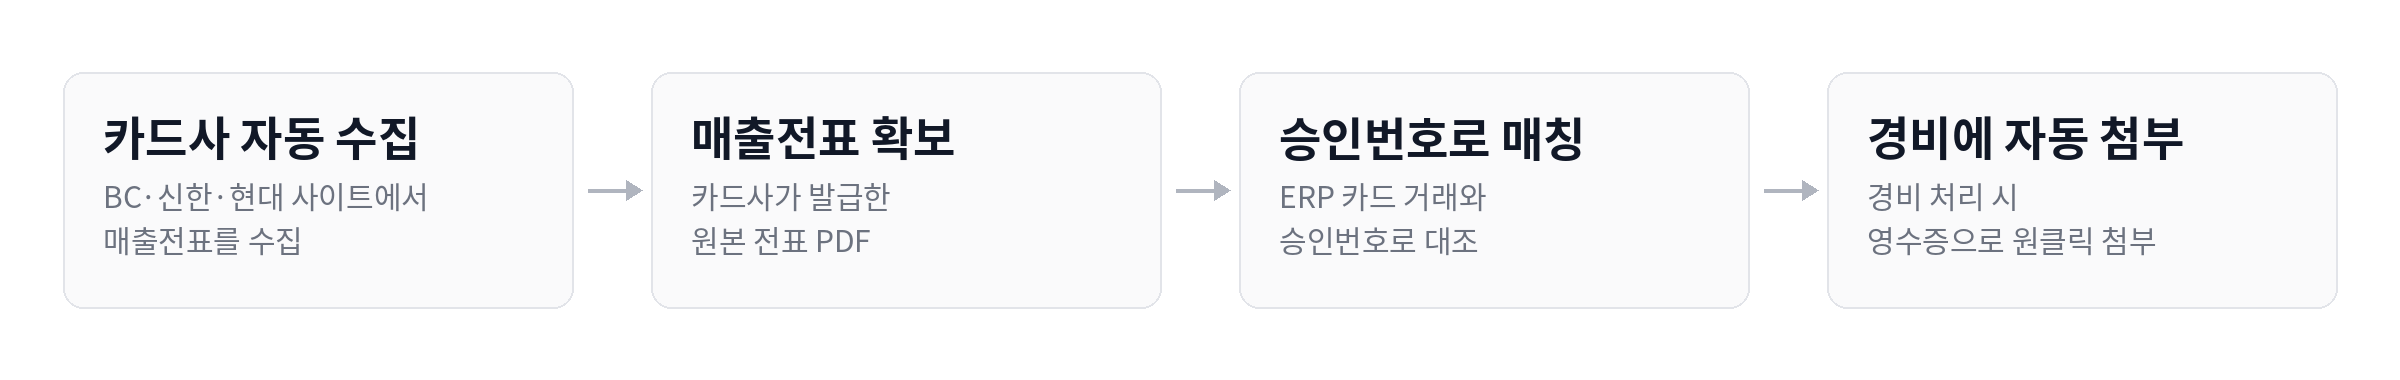
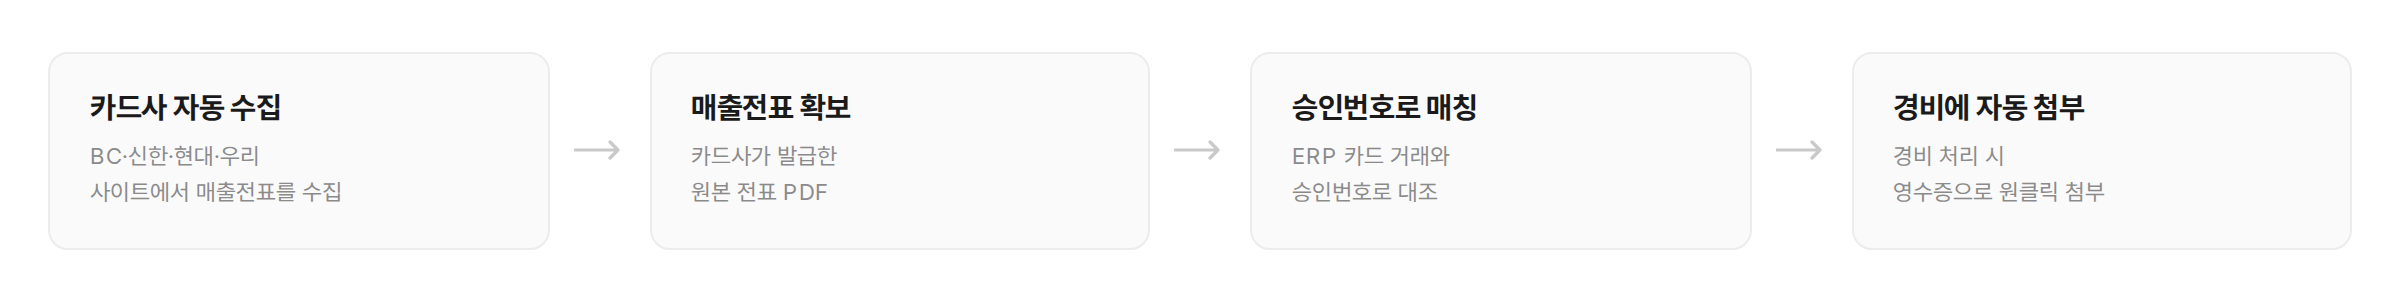
content(expense): 매출전표 수집 카드사에 우리카드 반영, 흐름도 재제작
수집 대상이 BC·신한·현대 세 곳이라고 적혀 있었는데, 실제 구현은
우리카드까지 네 곳이다(slipCollector.js의 SLIP_CAPTURERS 기준).

흐름도(190)는 카드 제목 글자가 본문 대비 지나치게 커 보인다는
지적을 받아, 제목 크기를 줄이고 첫 카드 부제도 네 곳으로 맞춰
다시 만들었다.

diff --git a/src/content/builds.ts b/src/content/builds.ts
@@ -34,7 +34,7 @@ export const builds: Build[] = [
       { type: 'paragraph', text: '영수증을 보고 계정과 용도를 고르는 일은 번거로운 작업이라, AI가 대신 채워주면 실제로 잘 쓰이겠다는 생각에서 시작했습니다. 비전 모델이 영수증을 분석한 결과에, 과거 지출 이력 3.7만 건을 적재해 만든 이력 기반 추천을 우선순위로 병합하는 다단계 추천 구조로 만들었습니다. 부가세 공제 여부처럼 규칙화하기 어려운 항목은 2년치 카드 전표에서 계정별 처리 관행을 집계해 기본값을 정합니다.' },
       { type: 'paragraph', text: '입력 보조 기능은 느리면 쓰지 않게 되기 때문에, 영수증 이미지 리사이즈와 프롬프트 캐싱, 추론 옵션 조정으로 응답 지연을 줄였습니다. 영수증의 사업자번호가 ERP 거래처와 정확히 1건 매칭되면 거래처까지 자동으로 채워지고, 호출마다 토큰과 비용, 사용자가 최종 채택한 계정을 로그로 남겨 추천 품질을 추적합니다.' },
       { type: 'heading', text: '카드 매출전표 자동 수집' },
-      { type: 'paragraph', text: '법인카드로 결제하면 종이 영수증을 따로 챙기지 못하는 경우가 많습니다. 그러면 경비를 처리할 때마다 카드사 사이트에 접속해 매출전표를 일일이 발급받아 첨부해야 했는데, 건마다 반복되는 번거로운 일이었습니다. 이 일을 사람이 하지 않도록, 외부 대행 서비스에 맡기는 대신 BC·신한·현대 세 카드사 사이트를 직접 자동화해, 시스템이 전표를 미리 받아와 승인번호가 맞는 거래에 자동으로 붙여주게 만들었습니다.' },
+      { type: 'paragraph', text: '법인카드로 결제하면 종이 영수증을 따로 챙기지 못하는 경우가 많습니다. 그러면 경비를 처리할 때마다 카드사 사이트에 접속해 매출전표를 일일이 발급받아 첨부해야 했는데, 건마다 반복되는 번거로운 일이었습니다. 이 일을 사람이 하지 않도록, 외부 대행 서비스에 맡기는 대신 BC·신한·현대·우리 네 카드사 사이트를 직접 자동화해, 시스템이 전표를 미리 받아와 승인번호가 맞는 거래에 자동으로 붙여주게 만들었습니다.' },
       { type: 'image', src: '/projects/expense-management/190.png', alt: '카드사에서 전표를 받아 경비에 자동 첨부하기까지의 흐름도', caption: '카드사에서 전표를 받아 경비에 자동으로 첨부하기까지의 흐름.' },
       { type: 'paragraph', text: '자동화에서 가장 신경 쓴 것은 카드사 계정이 잠기지 않게 하는 일이었습니다. 카드사는 로그인이 연속으로 실패하면 계정을 잠그기 때문에, 한 번의 수집을 하나의 로그인 세션으로 묶어 거래를 건별로 다시 로그인하지 않게 했고, 같은 카드사에 동시 접속이 겹치지 않도록 막았습니다. 로그인 실패가 임계치에 닿으면 그 카드사 수집을 스스로 멈추는 차단기도 뒀고, 수집이 도중에 끊기더라도 이미 받은 전표가 유실되지 않도록 받는 즉시 중간중간 저장하게 했습니다.' },
       { type: 'paragraph', text: '언제 무엇을 받아올지도 문제였습니다. 카드 승인이 회계 시스템에 잡히기까지 최소 이틀, 길게는 열여드레가 걸려서, 마지막으로 받은 날짜만 기준으로 삼으면 매번 아무것도 받아오지 못합니다. 그래서 넉넉한 기간을 매번 다시 조회하되 이미 확보한 전표는 빼고 새로 들어온 것만 내려받도록 했습니다. 기간을 넓혀도 실제로 받는 양은 신규 유입분뿐이라, 같은 수집을 반복해도 결과가 달라지지 않습니다.' },
